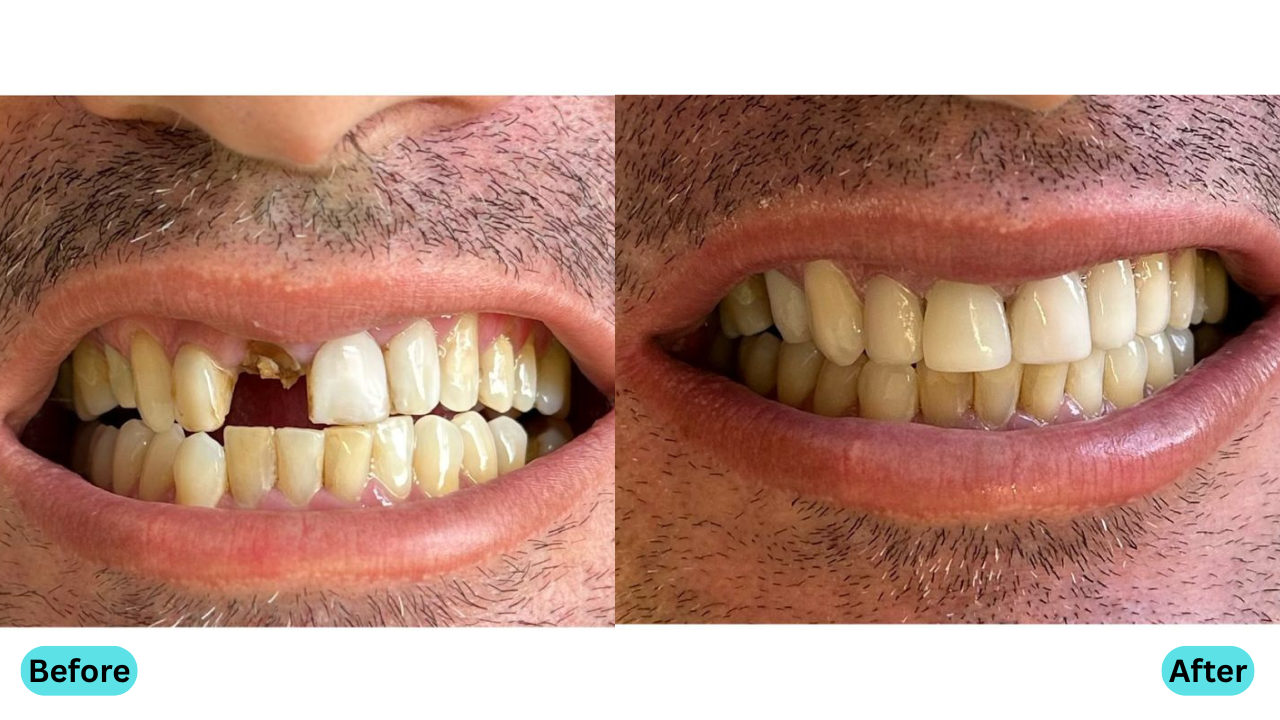
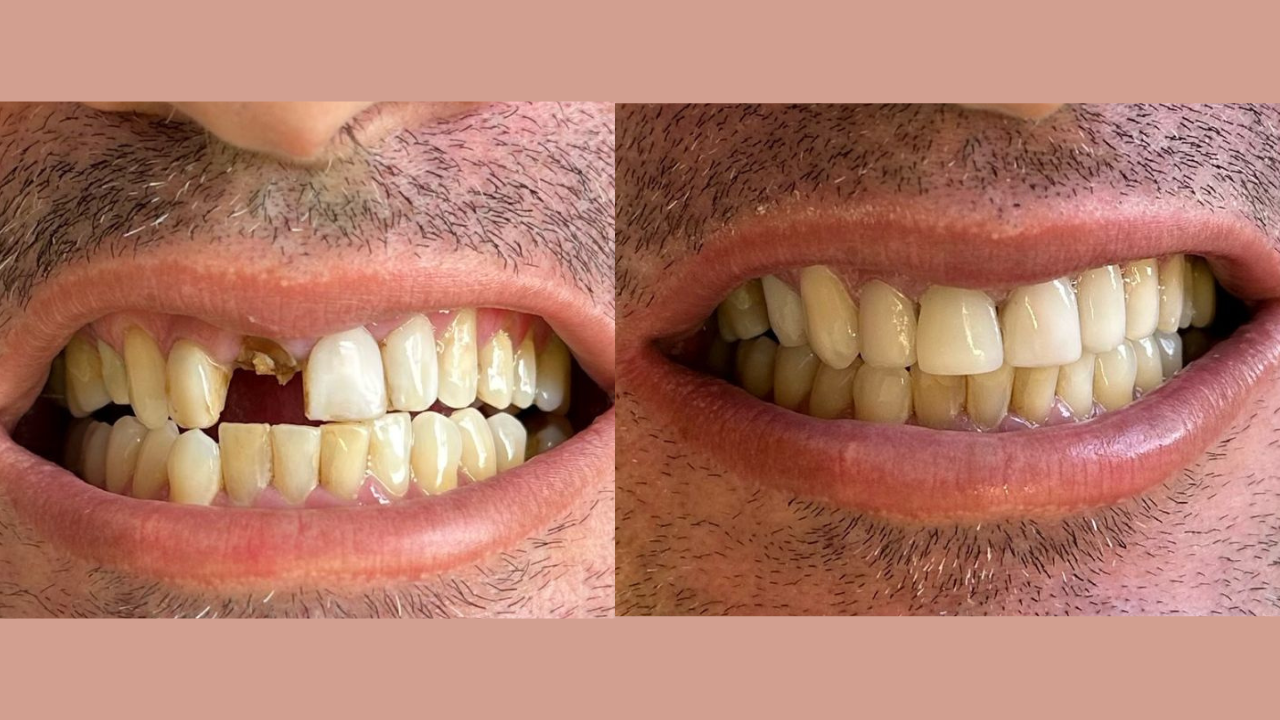
final sample 2

diff --git a/app/components/PatientTransformationsSection.tsx b/app/components/PatientTransformationsSection.tsx
@@ -177,6 +177,13 @@ export default function PatientTransformationsSection() {
                 />
               </motion.div>
             </AnimatePresence>
+            {/* Before / After labels */}
+            <div className="absolute top-3 left-3 z-10 px-3 py-1.5 rounded-full bg-black/70 text-white text-xs sm:text-sm font-semibold">
+              Before
+            </div>
+            <div className="absolute top-3 right-3 z-10 px-3 py-1.5 rounded-full bg-[#2E86C1] text-white text-xs sm:text-sm font-semibold">
+              After
+            </div>
           </div>
 
           {/* Navigation Buttons */}
